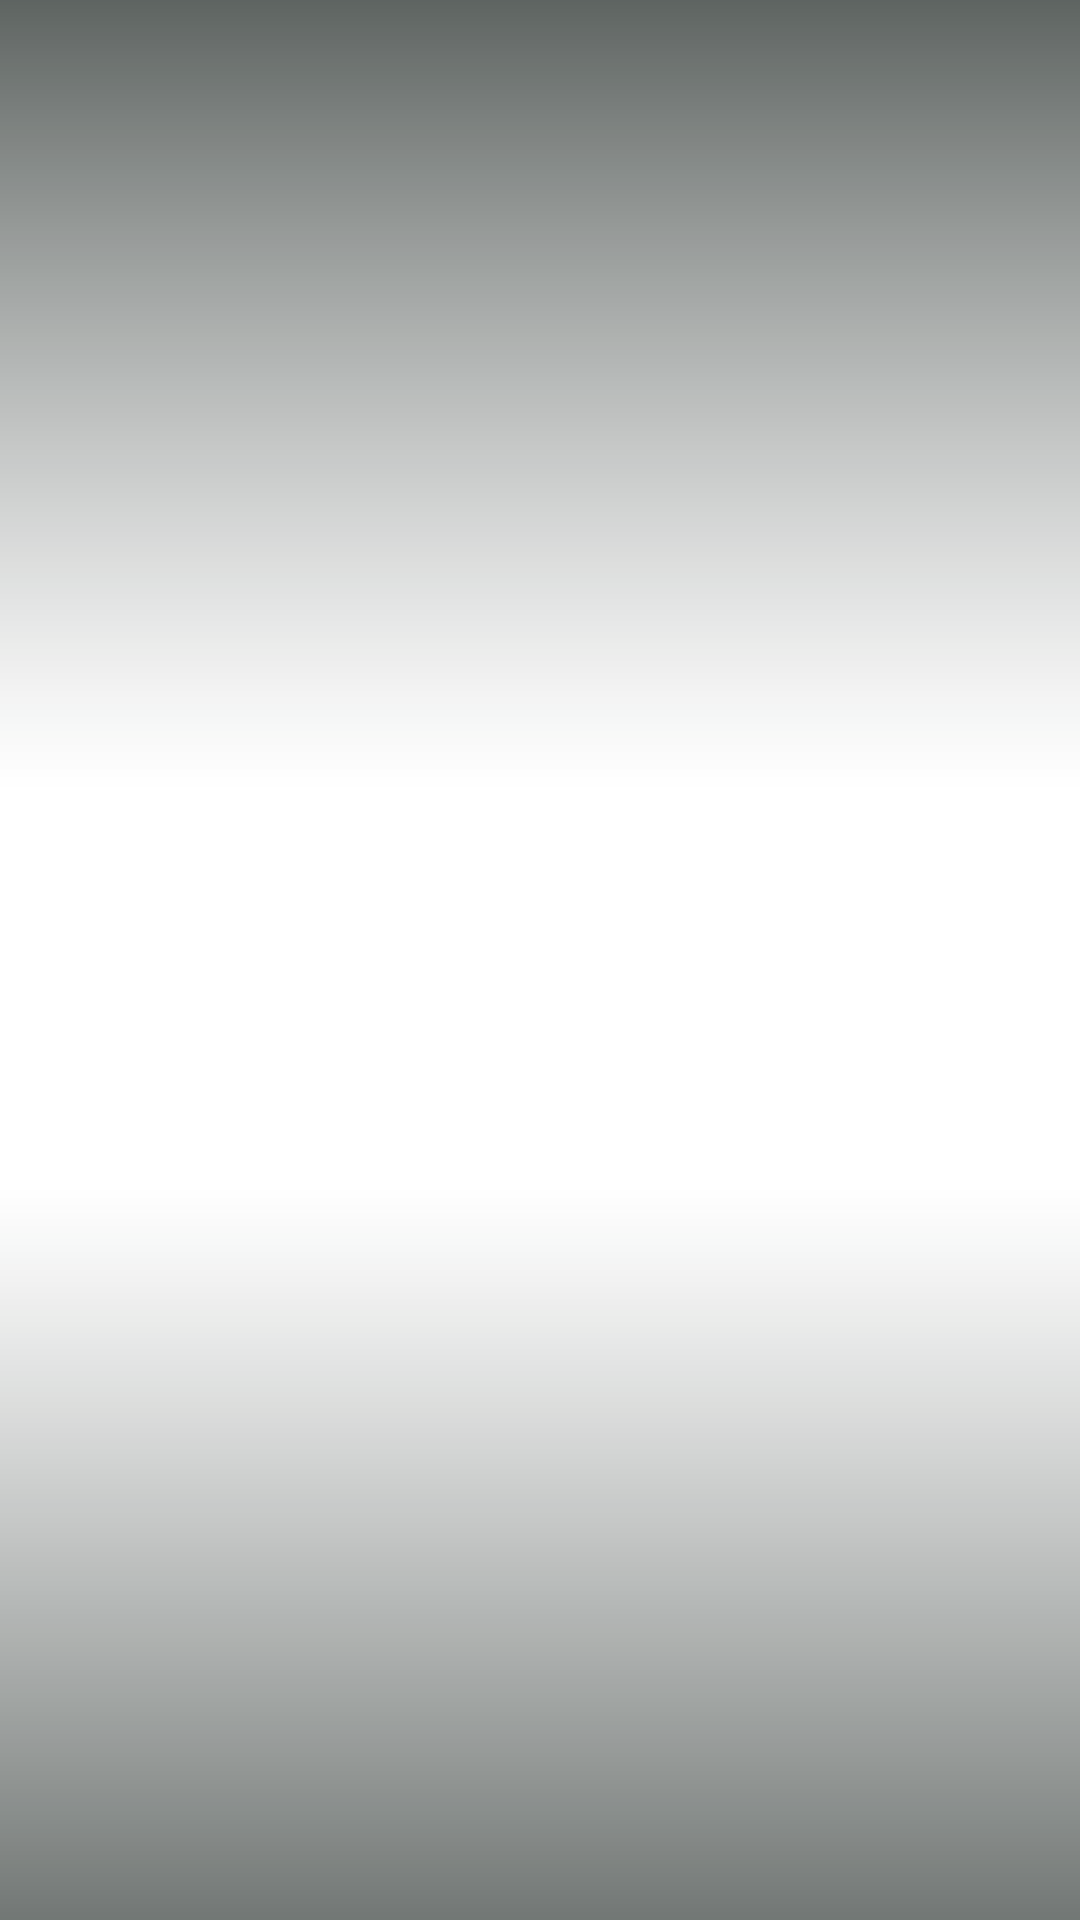
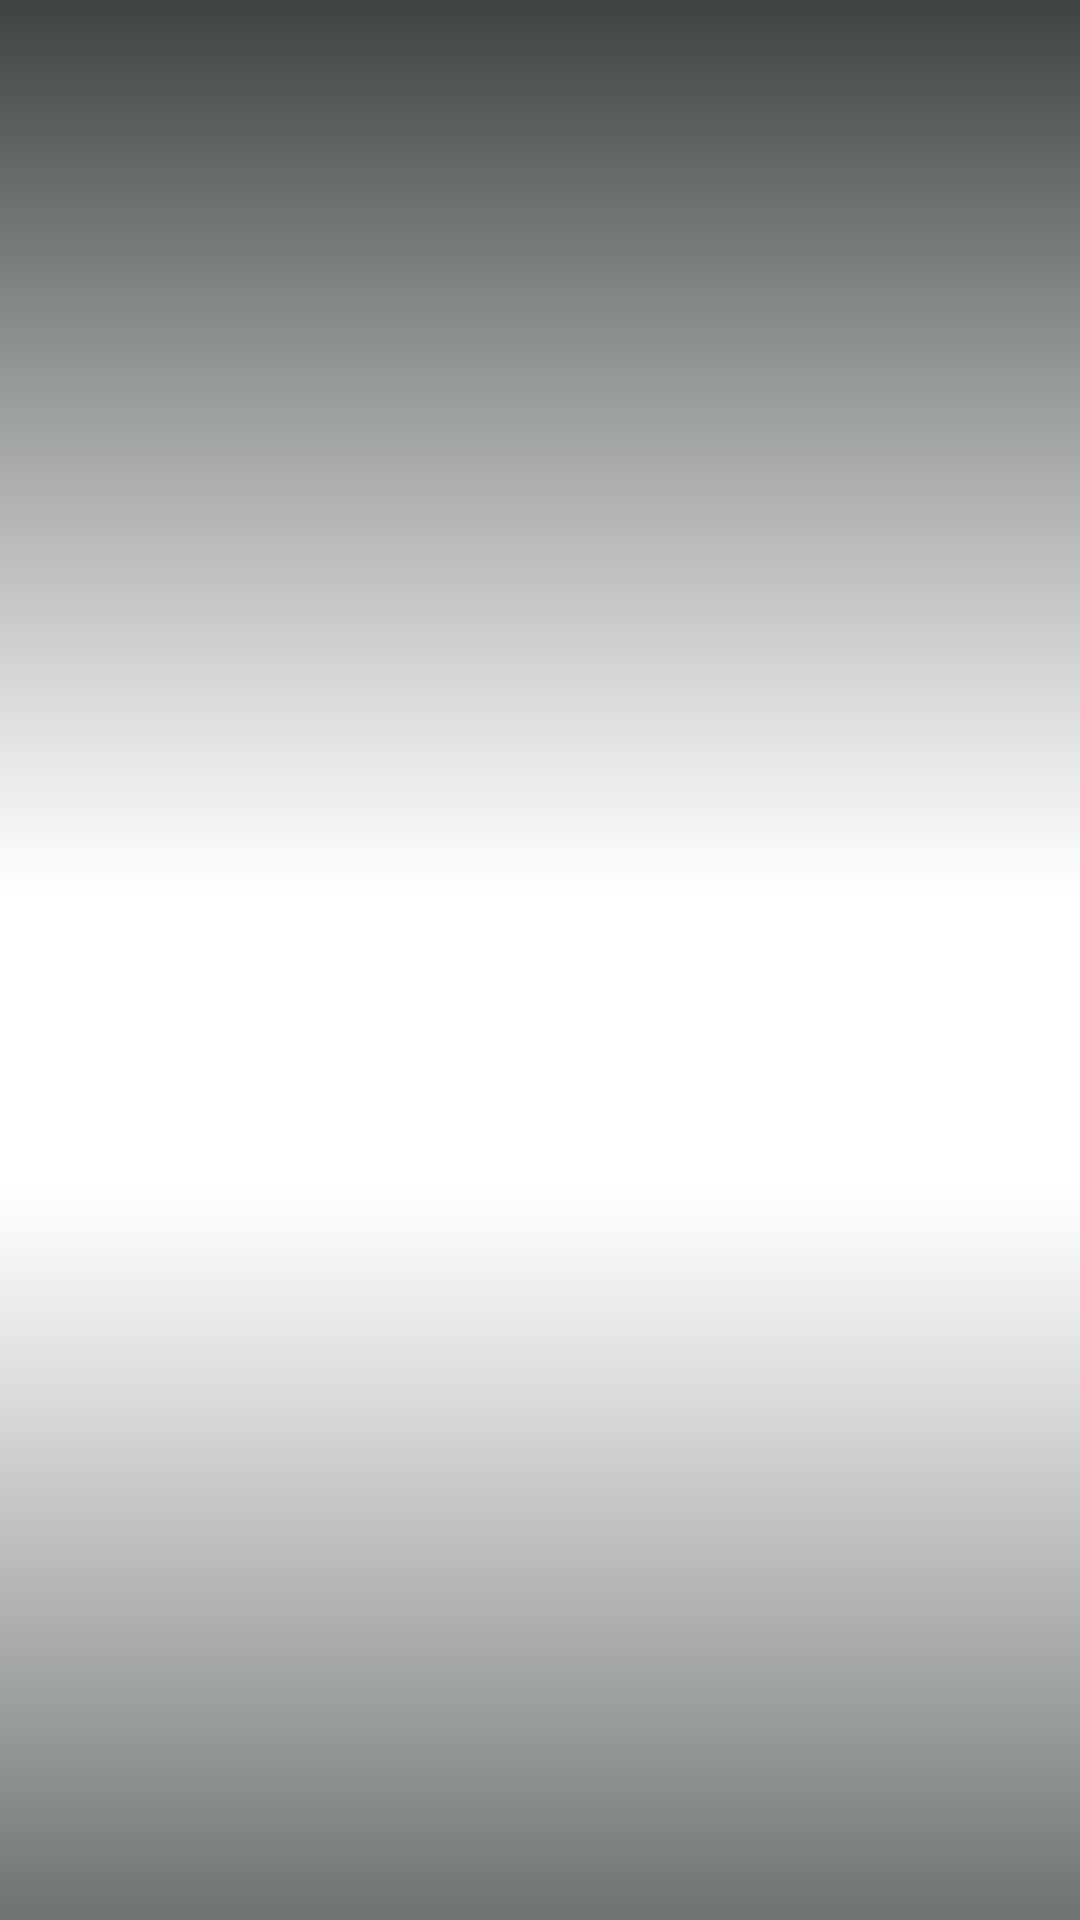
Cổng chất lượng tự động cho mọi phong cách + chuẩn chữ / nhạc theo bộ
- scripts/chat_luong.py (soat.py tự gọi, dòng CHUẨN:): lệch phong cách (font/hộp chữ ngoài bộ), ảnh không phủ kín,
  ảnh tĩnh > 6s, ảnh độ phân giải thấp, chữ ghi nguồn giữa màn hình, thiếu nhạc, ảnh lặp sát, brief cần ảnh dự án mà
  toàn stock, script tự viết dựng hình trong _work
- tuong_phan.py tính cả lớp phủ trong suốt (lớp che sáng) khi đo độ tương phản
- phong cách có thêm style.fonts / style.looks (font, kiểu chữ phụ được phép); Sang trọng BĐS (+ Nhịp) tiêu đề Cormorant
- CHAT-LUONG.md: chữ để phong cách tự áp ở mọi bộ, bảng nhạc theo nhóm phong cách, ảnh bị chặn mạng thì tự tìm nguồn
  khác không hỏi người dùng; lớp che sáng đậm hơn

Claude-Session: https://claude.ai/code/session_01WjUMvuxmDQxUa4RB62tnhb

diff --git a/scripts/chat_luong.py b/scripts/chat_luong.py
@@ -1,0 +1,153 @@
+"""CỔNG CHẤT LƯỢNG — soát plan.json theo CHUẨN CHUNG cho mọi AI (Claude, ChatGPT, Codex) và MỌI phong cách.
+soat.py tự gọi; chạy riêng: python scripts/chat_luong.py "<folder>"
+Bắt các lỗi làm video "khác tay": lệch phong cách (font / kiểu hộp chữ ngoài bộ), ảnh thu nhỏ / đóng khung, ảnh tĩnh quá lâu,
+ảnh độ phân giải thấp, chữ ghi nguồn giữa màn hình, thiếu nhạc nền, ảnh lặp sát nhau, brief cần ảnh dự án mà toàn ảnh stock,
+script tự viết trong _work để dựng hình. Chuẩn đầy đủ: huong-dan/chat-luong.md (máy ảo: CHAT-LUONG.md).
+"""
+import json
+import re
+import sys
+from pathlib import Path
+
+ROOT = Path(__file__).resolve().parent.parent
+sys.path.insert(0, str(ROOT / "scripts"))
+
+PLATE = {"solid", "highlight", "skew", "tape", "pill2", "dashed", "chat", "box", "gold", "tag"}
+IMG = re.compile(r"\.(jpe?g|png|webp|avif|bmp)$", re.I)
+CREDIT = re.compile(r"(wikimedia|wikipedia|cc[ -]?by|cc0|creative commons|unsplash|pixabay|openverse|nguồn:|ảnh:|photo:|©|bản quyền ảnh|·\s*vinhomes market)", re.I)
+NEED_REAL = re.compile(r"(hình ảnh (về )?dự án|ảnh (về )?dự án|ảnh thật|phối cảnh|tìm (hình|ảnh)|minh hoạ dự án|minh họa dự án)", re.I)
+
+
+def _style(folder: Path) -> dict:
+    try:
+        import phongcach
+        ps = phongcach.project_style(folder)
+        return (ps or {}).get("style") or {}
+    except Exception:  # noqa
+        return {}
+
+
+def _img_size(p: Path):
+    try:
+        from PIL import Image
+        with Image.open(p) as im:
+            return im.size
+    except Exception:  # noqa
+        return None
+
+
+def _is_stock_generic(folder: Path, src: str) -> bool:
+    """ảnh/video lấy từ Pixabay (cảnh chung chung) — dựa vào _pick_<tên>.json của lần tải"""
+    p = folder / src
+    if not src.startswith("assets/stock/"):
+        return False
+    pj = p.parent / f"_pick_{p.stem}.json"
+    try:
+        return "pixabay" in pj.read_text(encoding="utf-8").lower()
+    except Exception:  # noqa
+        return False
+
+
+def check(folder: Path, plan: dict = None) -> list:
+    folder = Path(folder)
+    plan = plan or json.loads((folder / "plan.json").read_text(encoding="utf-8"))
+    els = [e for e in plan.get("elements") or [] if e]
+    st = _style(folder)
+    out = []
+
+    # 1. LỆCH PHONG CÁCH — chữ phải theo bộ đã chọn (để trống font/look là phong cách tự áp)
+    if st:
+        allowed = {str(x).lower() for x in [st.get("font"), st.get("heading"), (st.get("text") or {}).get("font"),
+                                             (st.get("captions") or {}).get("font"), *(st.get("fonts") or [])] if x}
+        st_look = (st.get("text") or {}).get("look") or "clean"
+        st_plate = st_look in PLATE or bool(set(st.get("looks") or []) & PLATE)
+        bad_font, bad_look = {}, []
+        for i, e in enumerate(els):
+            if e.get("type") != "text":
+                continue
+            f = e.get("font")
+            if f and allowed and f.lower() not in allowed:
+                bad_font.setdefault(f, []).append(f"{e.get('start', 0):.1f}s")
+            lk = e.get("look")
+            if lk and lk in PLATE and not st_plate and lk not in (st.get("looks") or []):
+                bad_look.append(f"#{i} {e.get('start', 0):.1f}s ({lk})")
+        for f, ts in bad_font.items():
+            out.append(f"LỆCH PHONG CÁCH: font “{f}” ở {', '.join(ts[:5])}{' …' if len(ts) > 5 else ''} không thuộc bộ "
+                       f"({', '.join(sorted(allowed))}) — bỏ trường font để phong cách tự áp, hoặc dùng font của bộ")
+        if bad_look:
+            out.append(f"LỆCH PHONG CÁCH: chữ đặt trong hộp ({', '.join(bad_look[:4])}{' …' if len(bad_look) > 4 else ''}) trong khi bộ dùng "
+                       f"chữ trơn “{st_look}” — bỏ trường look; nền sáng thì dùng lớp che sáng (assets-chung/lop/che-sang.png) hoặc dời chữ")
+
+    # 2. ẢNH MINH HOẠ — phủ kín, có chuyển động, đủ nét, không lặp sát
+    brolls = [e for e in els if e.get("type") == "broll" and e.get("src") and "assets/lop/" not in e["src"]]
+    seen = {}
+    for e in sorted(brolls, key=lambda x: x.get("start", 0)):
+        src, a, b = e["src"], e.get("start", 0), e.get("end", 0)
+        tag = f"ảnh {Path(src).name} {a:.1f}–{b:.1f}s"
+        full = (e.get("area") or (st.get("broll") or {}).get("area") or "full") == "full"
+        if IMG.search(src):
+            if e.get("fit") in ("contain", "blur") and full:
+                out.append(f"{tag}: ảnh không phủ kín (fit {e['fit']}) — dùng fit cover + panFrom/panTo (chuẩn mục 3)")
+            moving = (e.get("panFrom") is not None and e.get("panTo") is not None) or (e.get("panYFrom") is not None and e.get("panYTo") is not None)
+            kb_off = e.get("kb") is False or (st.get("broll") or {}).get("kenburns") is False
+            if b - a > 6.05:
+                out.append(f"{tag}: một ảnh tĩnh {b - a:.1f}s (> 6s) — chia thành 2–3 ảnh hoặc vùng lia khác nhau")
+            if kb_off and not moving:
+                out.append(f"{tag}: ảnh đứng yên (tắt Ken Burns, không lia) — thêm panFrom/panTo")
+            sz = _img_size(folder / src)
+            if sz and full:
+                w, h = sz
+                if h < 1080:
+                    out.append(f"{tag}: ảnh gốc chỉ {w}×{h} — phủ kín khung dọc sẽ mờ; tìm bản lớn hơn (cao ≥ 1300px) hoặc dùng video stock")
+                if abs(w / h - 1080 / 1920) < 0.01 and src.startswith(("assets/canh-quan", "assets/_khung", "assets/frames")):
+                    out.append(f"{tag}: ảnh đã bị dựng sẵn thành khung dọc bằng script riêng — dùng ảnh gốc, để tool phủ kín + lia")
+        if src in seen and a - seen[src] < 20 and not e.get("cropS"):
+            out.append(f"{tag}: lặp lại ảnh đã dùng ở {seen[src]:.1f}s (cách < 20s) — đổi ảnh hoặc thêm cropS + lia vùng khác")
+        seen.setdefault(src, a)
+
+    # 3. CHỮ GHI NGUỒN GIỮA MÀN HÌNH
+    for e in els:
+        if e.get("type") == "text" and CREDIT.search(str(e.get("text", ""))):
+            out.append(f"{e.get('start', 0):.1f}s: khối chữ “{str(e['text'])[:40]}” là dòng ghi nguồn — xoá; ảnh CC để tool tự chèn ở góc "
+                       f"(_nguon.json), ảnh dự án ghi link trong bao-cao.md")
+
+    # 4. NHẠC NỀN
+    has_music = bool(plan.get("music")) or any(e.get("type") == "audio" and (e.get("bgm") or "nhac" in str(e.get("src", ""))) for e in els)
+    mode = ""
+    try:
+        mode = json.loads((folder / "nhac.json").read_text(encoding="utf-8")).get("mode", "")
+    except Exception:  # noqa
+        pass
+    if not has_music and mode != "khong" and not plan.get("dungNhip"):
+        out.append("chưa có nhạc nền — thêm theo phong cách (chuẩn mục 5); người dùng không muốn nhạc thì nhac.json {\"mode\": \"khong\"}")
+
+    # 5. BRIEF CẦN ẢNH DỰ ÁN MÀ TOÀN STOCK CHUNG CHUNG
+    brief = ""
+    for n in ("brief.txt", "brief.md"):
+        if (folder / n).exists():
+            brief = (folder / n).read_text(encoding="utf-8", errors="ignore")
+    if brief and NEED_REAL.search(brief) and brolls:
+        gen = [e for e in brolls if _is_stock_generic(folder, e["src"])]
+        if len(gen) >= max(2, 0.6 * len(brolls)):
+            out.append(f"brief cần ẢNH THẬT của dự án nhưng {len(gen)}/{len(brolls)} ảnh trám là stock Pixabay chung chung — tìm ảnh "
+                       f"phối cảnh / tiện ích của dự án trên web và tải bằng stock.py url (chuẩn mục 2)")
+
+    # 6. SCRIPT TỰ VIẾT ĐỂ DỰNG HÌNH
+    work = folder / "_work"
+    if work.exists():
+        for py in sorted(work.glob("*.py")):
+            try:
+                s = py.read_text(encoding="utf-8", errors="ignore")
+            except Exception:  # noqa
+                continue
+            if re.search(r"(filter_complex|concat=|Image\.new|\.paste\(|overlay=|elements\s*=|plan\.json)", s):
+                out.append(f"_work/{py.name}: script tự viết có ghép / dựng hình / sinh plan — chuẩn mục 1 cấm; làm lại bằng công cụ của tool")
+    return out
+
+
+if __name__ == "__main__":
+    if len(sys.argv) < 2:
+        sys.exit(__doc__)
+    r = check(Path(sys.argv[1]).resolve())
+    print("== Cổng chất lượng ==")
+    print("\n".join("- " + x for x in r) or "- đạt")

diff --git a/scripts/tuong_phan.py b/scripts/tuong_phan.py
@@ -75,6 +75,22 @@ def frame(src: Path, t: float, W: int, H: int):
     return im
 
 
+def is_layer(b: dict) -> bool:
+    """khối broll là lớp phủ trong suốt (PNG trong assets/lop/ hoặc đặt z trên ảnh trám)"""
+    s = str(b.get("src") or "")
+    return s.lower().endswith(".png") and ("assets/lop/" in s or (isinstance(b.get("z"), (int, float)) and b["z"] > 10))
+
+
+def over(im, png: Path, W: int, H: int):
+    """ghép lớp PNG có kênh trong suốt lên khung (đúng vị trí, phủ kín khung)"""
+    from PIL import Image
+    try:
+        lay = Image.open(png).convert("RGBA").resize((W, H))
+        return Image.alpha_composite(im.convert("RGBA"), lay).convert("RGB")
+    except Exception:  # noqa
+        return im
+
+
 def text_box(e: dict, size: float, fw: int, fh: int):
     lines = str(e.get("text") or "").split("\n")
     upper = e.get("upper", True)
@@ -124,13 +140,17 @@ def check(folder: Path, fix: bool = False) -> list:
         worst, mean_r = 0.0, 99.0
         for k in (0.2, 0.5, 0.85):
             t = e["start"] + (e["end"] - e["start"]) * k
-            br = next((b for b in els if b and b.get("type") == "broll" and b.get("src") and b["start"] <= t < b["end"] and not b.get("hidden")), None)
+            act = [b for b in els if b and b.get("type") == "broll" and b.get("src") and b["start"] <= t < b["end"] and not b.get("hidden")]
+            lay = [b for b in act if is_layer(b)]  # lớp phủ trong suốt (vd lớp che sáng assets/lop/che-sang.png) — ghép lên nền khi đo
+            br = next((b for b in act if not is_layer(b)), None)
             if br and (folder / br["src"]).exists():
                 im = frame(folder / br["src"], float(br.get("from") or 0) + (t - br["start"]) * float(br.get("rate") or 1), W, H)
             else:
                 im = frame(vid, out_to_src(plan, t), W, H)
             if im is None:
                 continue
+            for b in lay:
+                im = over(im, folder / b["src"], W, H)
             reg = im.crop((int(x0), int(y0), max(int(x0) + 1, int(x1)), max(int(y0) + 1, int(y1))))
             px = list(reg.get_flattened_data() if hasattr(reg, "get_flattened_data") else reg.getdata())
             if not px:

diff --git a/scripts/soat.py b/scripts/soat.py
@@ -158,6 +158,11 @@ def main(folder: Path):
                        "  → sửa: python scripts/tuong_phan.py \"<folder>\" --sua")
     except Exception as e:  # noqa
         loi.append(f"(không kiểm tra được độ tương phản chữ: {e})")
+    try:  # cổng chất lượng chung cho mọi AI / mọi phong cách (huong-dan/chat-luong.md)
+        from chat_luong import check as cl_check
+        loi += ["CHUẨN: " + x for x in cl_check(folder, plan)]
+    except Exception as e:  # noqa
+        loi.append(f"(không chạy được cổng chất lượng: {e})")
     print("== Lỗi / cần xem ==")
     print("\n".join("- " + x for x in dict.fromkeys(loi)) or "- không thấy lỗi")
     print("\n== Chữ trên màn hình (soát chính tả, dấu, số liệu so với brief) ==")

diff --git a/scripts/phongcach.py b/scripts/phongcach.py
@@ -39,7 +39,7 @@ def slug(name: str) -> str:
 
 # Thành phần của một phong cách: tên, nhãn, các khoá trong "style" và trong "plan"
 COMPONENTS = [
-    ("chu", "Chữ & font", ["font", "heading", "text"], []),
+    ("chu", "Chữ & font", ["font", "heading", "text", "fonts", "looks"], []),  # fonts / looks: font & kiểu chữ PHỤ được phép dùng thêm (soát lệch phong cách)
     ("phude", "Phụ đề", ["captions"], ["captionTop", "wordsPerPage", "captionSize", "captionUpper"]),
     ("chuyencanh", "Chuyển cảnh", [], ["transition", "cutFx"]),
     ("hieuung", "Hiệu ứng (zoom, chớp, rung, lớp phủ, chuyển động)", ["effects", "motion"], []),

diff --git a/CHATGPT.md b/CHATGPT.md
@@ -120,7 +120,8 @@ gửi. Video nói về dự án cụ thể → ảnh THẬT của dự án tìm 
 - Không bịa giá, diện tích, SĐT, số phòng khi brief không có (số phòng đoán theo hình thì nói rõ là đoán).
 - Ảnh: người dùng gửi > ẢNH THẬT của dự án trên web (trang chủ đầu tư / sàn chính thức / báo — `./chay.sh stock.py url …`) >
   Openverse ảnh địa danh (ghi nguồn tự chèn) > Pixabay (khi có khoá). Nhạc: người dùng gửi > kho có sẵn. Không lấy ảnh người thật.
-- Không tải được trang ảnh dự án → báo người dùng / xin họ gửi ảnh; KHÔNG thay bằng cảnh chung chung mà không báo.
+- Không tải được ảnh dự án (mạng chặn tên miền) → KHÔNG hỏi / báo người dùng giữa chừng; tự thử nguồn khác (CHAT-LUONG.md mục 2),
+  chỉ ghi vào báo cáo cuối những ảnh không lấy được.
 
 ## KHỐI CẦN MẠNG
 `cai-may-ao.sh` ghi `.mang.json` (co / khong) cho từng nhóm. "khong" thì thay bằng cách khác (vd nhãn chữ "📍 Cách trung tâm 10 phút"
